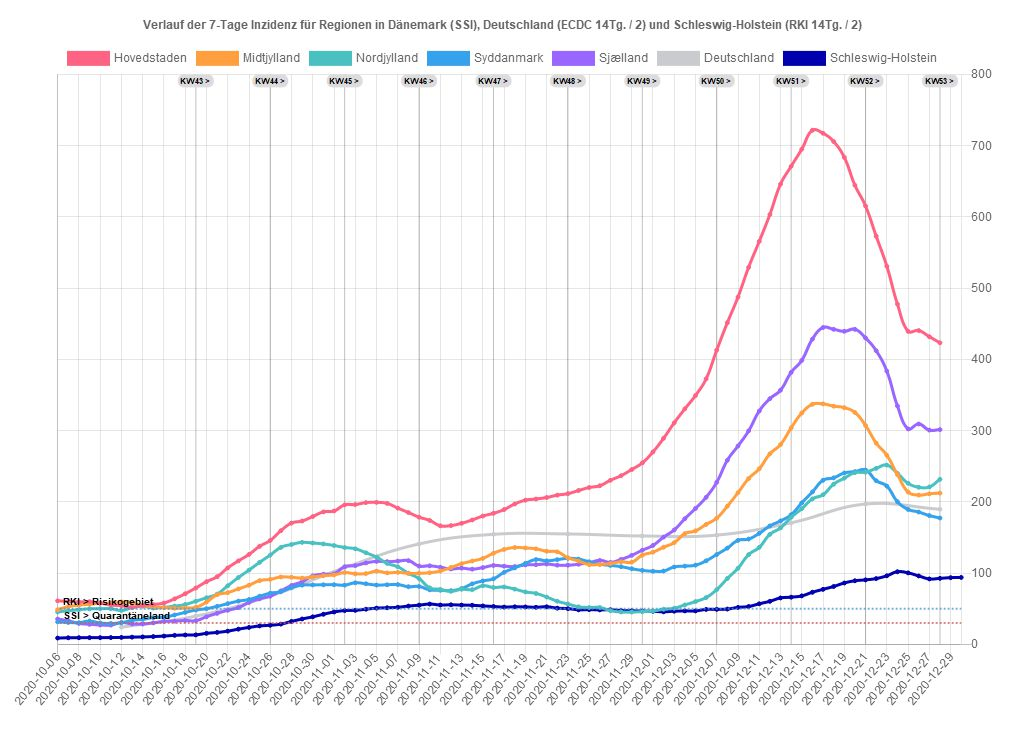
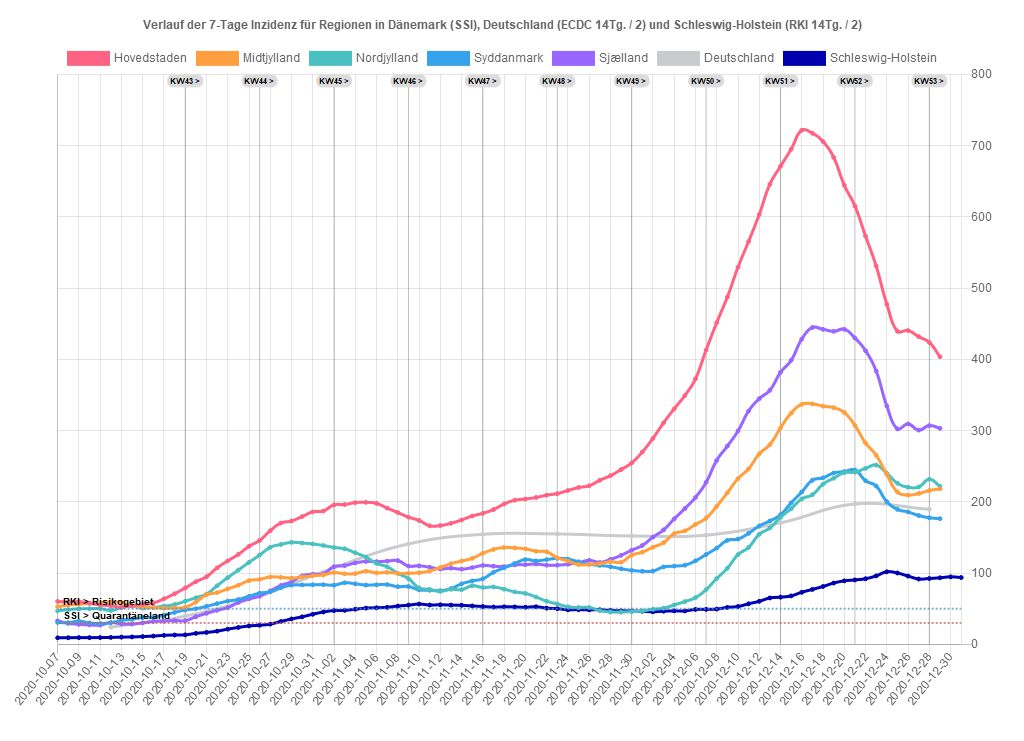
31.12.2020 14:19:22,07

diff --git a/dk/regioner.js b/dk/regioner.js
@@ -1,44 +1,44 @@
 var chdata={ type:'line',
-last_update: '2020-12-30',
-last_dk_data: '2020-12-28',
+last_update: '2020-12-31',
+last_dk_data: '2020-12-29',
 data: {
-labels: ["2020-10-06","2020-10-07","2020-10-08","2020-10-09","2020-10-10","2020-10-11","2020-10-12","2020-10-13","2020-10-14","2020-10-15","2020-10-16","2020-10-17","2020-10-18","2020-10-19","2020-10-20","2020-10-21","2020-10-22","2020-10-23","2020-10-24","2020-10-25","2020-10-26","2020-10-27","2020-10-28","2020-10-29","2020-10-30","2020-10-31","2020-11-01","2020-11-02","2020-11-03","2020-11-04","2020-11-05","2020-11-06","2020-11-07","2020-11-08","2020-11-09","2020-11-10","2020-11-11","2020-11-12","2020-11-13","2020-11-14","2020-11-15","2020-11-16","2020-11-17","2020-11-18","2020-11-19","2020-11-20","2020-11-21","2020-11-22","2020-11-23","2020-11-24","2020-11-25","2020-11-26","2020-11-27","2020-11-28","2020-11-29","2020-11-30","2020-12-01","2020-12-02","2020-12-03","2020-12-04","2020-12-05","2020-12-06","2020-12-07","2020-12-08","2020-12-09","2020-12-10","2020-12-11","2020-12-12","2020-12-13","2020-12-14","2020-12-15","2020-12-16","2020-12-17","2020-12-18","2020-12-19","2020-12-20","2020-12-21","2020-12-22","2020-12-23","2020-12-24","2020-12-25","2020-12-26","2020-12-27","2020-12-28","2020-12-29","2020-12-30"],
+labels: ["2020-10-07","2020-10-08","2020-10-09","2020-10-10","2020-10-11","2020-10-12","2020-10-13","2020-10-14","2020-10-15","2020-10-16","2020-10-17","2020-10-18","2020-10-19","2020-10-20","2020-10-21","2020-10-22","2020-10-23","2020-10-24","2020-10-25","2020-10-26","2020-10-27","2020-10-28","2020-10-29","2020-10-30","2020-10-31","2020-11-01","2020-11-02","2020-11-03","2020-11-04","2020-11-05","2020-11-06","2020-11-07","2020-11-08","2020-11-09","2020-11-10","2020-11-11","2020-11-12","2020-11-13","2020-11-14","2020-11-15","2020-11-16","2020-11-17","2020-11-18","2020-11-19","2020-11-20","2020-11-21","2020-11-22","2020-11-23","2020-11-24","2020-11-25","2020-11-26","2020-11-27","2020-11-28","2020-11-29","2020-11-30","2020-12-01","2020-12-02","2020-12-03","2020-12-04","2020-12-05","2020-12-06","2020-12-07","2020-12-08","2020-12-09","2020-12-10","2020-12-11","2020-12-12","2020-12-13","2020-12-14","2020-12-15","2020-12-16","2020-12-17","2020-12-18","2020-12-19","2020-12-20","2020-12-21","2020-12-22","2020-12-23","2020-12-24","2020-12-25","2020-12-26","2020-12-27","2020-12-28","2020-12-29","2020-12-30","2020-12-31"],
 datasets: [
 {label: 'Hovedstaden',
 backgroundColor: window.chartColors.red,
 borderColor: window.chartColors.red,
 fill: false,
-data: [61.1,60.2,59.5,59.9,57.8,55.2,54.2,52.1,54.4,55.9,58.0,63.9,71.0,79.1,87.9,94.9,107.3,117.1,126.2,137.6,145.8,159.5,170.2,173.1,179.4,185.9,187.2,195.7,196.2,198.9,199.3,197.8,191.2,185.0,178.5,173.9,166.4,166.7,169.9,174.6,180.1,183.9,189.2,197.0,202.3,204.0,206.1,209.4,211.5,215.9,220.1,222.6,230.3,236.7,245.3,254.7,270.0,289.2,310.9,330.5,349.2,372.6,413.0,451.5,487.4,529.2,565.6,603.4,645.9,671.0,695.0,721.6,717.4,705.7,683.5,644.4,615.2,572.9,530.8,477.5,439.4,440.4,431.8,423.2]},
+data: [60.2,59.5,59.9,57.8,55.2,54.2,52.1,54.4,55.9,58.0,63.9,71.0,79.1,87.9,94.9,107.3,117.1,126.2,137.6,145.8,159.5,170.2,173.1,179.4,185.9,187.2,195.7,196.2,198.9,199.3,197.8,191.2,185.0,178.5,173.9,166.4,166.7,169.9,174.6,180.1,183.9,189.2,197.0,202.3,204.0,206.1,209.4,211.5,215.9,220.1,222.6,230.3,236.7,245.3,254.7,270.0,289.2,310.9,330.6,349.2,372.7,413.1,451.6,487.5,529.3,565.6,603.4,645.9,671.0,695.0,721.6,717.4,705.7,683.5,644.4,615.2,572.9,530.9,477.5,439.4,440.4,431.8,423.8,403.7]},
 {label: 'Midtjylland',
 backgroundColor: window.chartColors.orange,
 borderColor: window.chartColors.orange,
 fill: false,
-data: [48.6,52.9,55.0,56.2,57.5,58.1,59.6,58.6,54.4,52.5,51.6,50.7,51.0,52.0,59.3,69.6,72.6,77.8,83.0,89.4,91.2,94.5,94.1,93.0,94.6,96.3,97.5,100.7,99.0,99.3,102.7,100.3,101.0,99.6,99.7,100.5,102.9,107.9,113.2,116.9,120.7,127.8,133.2,135.9,135.3,134.0,130.7,129.8,121.6,116.9,111.9,112.1,113.4,115.9,115.3,125.1,129.4,136.3,142.7,155.4,159.3,168.3,177.1,193.9,212.8,232.7,246.4,267.4,280.4,303.8,324.6,336.9,337.5,334.3,332.2,325.4,307.2,282.5,265.4,238.3,213.8,209.5,211.3,212.3]},
+data: [52.9,55.0,56.2,57.5,58.1,59.6,58.6,54.4,52.5,51.6,50.7,51.0,52.0,59.3,69.6,72.6,77.8,83.0,89.4,91.2,94.5,94.1,93.0,94.6,96.3,97.5,100.7,99.0,99.3,102.7,100.3,101.0,99.6,99.7,100.5,102.9,107.9,113.2,116.9,120.7,127.8,133.2,135.9,135.3,134.0,130.7,129.8,121.6,116.9,111.9,112.1,113.4,115.9,115.3,125.1,129.4,136.3,142.7,155.4,159.3,168.3,177.1,193.9,212.8,232.7,246.4,267.4,280.4,303.8,324.6,336.9,337.5,334.3,332.2,325.4,307.2,282.5,265.4,238.3,213.8,209.5,211.7,215.9,218.3]},
 {label: 'Nordjylland',
 backgroundColor: window.chartColors.green,
 borderColor: window.chartColors.green,
 fill: false,
-data: [45.4,47.1,48.6,49.8,50.0,50.0,47.5,51.5,53.7,50.9,51.9,53.6,55.9,60.5,65.4,70.5,82.2,93.7,104.2,115.1,125.3,136.1,140.2,143.1,142.2,140.9,138.7,135.9,134.1,128.5,122.4,113.6,108.8,99.7,92.2,79.3,77.1,74.4,77.3,76.8,82.2,79.8,80.5,77.5,73.6,71.4,66.4,60.5,56.6,52.7,51.7,51.7,47.3,45.4,45.3,45.9,46.8,49.2,50.7,55.3,60.0,65.6,76.8,92.4,106.8,125.9,136.1,154.4,163.4,178.3,190.4,204.1,210.0,224.8,233.2,241.0,241.7,247.0,251.6,240.0,226.1,220.5,220.9,231.7]},
+data: [47.1,48.6,49.8,50.0,50.0,47.5,51.5,53.7,50.9,51.9,53.6,55.9,60.5,65.4,70.5,82.2,93.7,104.2,115.1,125.3,136.1,140.2,143.1,142.2,140.9,138.7,135.9,134.1,128.5,122.4,113.6,108.8,99.7,92.2,79.3,77.1,74.4,77.3,76.8,82.2,79.8,80.5,77.5,73.6,71.4,66.4,60.5,56.6,52.7,51.7,51.7,47.3,45.4,45.3,45.9,46.8,49.2,50.7,55.3,60.0,65.6,76.8,92.4,106.8,125.9,136.1,154.4,163.4,178.3,190.4,204.1,210.0,224.8,233.2,241.0,241.7,247.0,251.6,240.0,226.1,220.5,220.9,231.7,221.9]},
 {label: 'Syddanmark',
 backgroundColor: window.chartColors.blue,
 borderColor: window.chartColors.blue,
 fill: false,
-data: [31.6,30.7,30.4,32.5,30.0,29.3,30.3,33.6,35.1,37.5,37.9,41.2,44.8,48.2,50.0,53.3,57.1,60.6,62.9,67.5,71.8,73.8,79.6,83.1,83.4,83.6,83.7,83.1,86.4,85.0,83.2,83.6,83.9,80.9,81.2,76.5,75.9,75.4,78.3,84.9,89.0,92.0,101.1,107.3,113.6,119.0,117.2,118.9,120.7,119.6,115.9,112.4,110.8,109.0,106.1,103.8,102.6,102.9,108.6,109.8,111.1,117.2,126.1,135.1,145.9,147.8,155.8,166.2,173.2,181.9,198.6,213.9,230.3,233.7,240.5,242.5,244.7,229.7,222.1,200.2,189.4,185.7,180.7,177.3]},
+data: [30.7,30.4,32.5,30.0,29.3,30.3,33.6,35.1,37.5,37.9,41.2,44.8,48.2,50.0,53.3,57.1,60.6,62.9,67.5,71.8,73.8,79.6,83.1,83.4,83.6,83.7,83.1,86.4,85.0,83.2,83.6,83.9,80.9,81.2,76.5,75.9,75.4,78.3,84.9,89.0,92.0,101.1,107.3,113.6,119.0,117.2,118.9,120.7,119.6,115.9,112.4,110.8,109.0,106.1,103.8,102.6,102.9,108.6,109.8,111.1,117.2,126.1,135.1,145.9,147.8,155.8,166.2,173.2,181.9,198.6,213.9,230.3,233.7,240.5,242.5,244.7,229.7,222.1,200.2,189.4,185.8,180.8,177.7,176.4]},
 {label: 'Sjælland',
 backgroundColor: window.chartColors.purple,
 borderColor: window.chartColors.purple,
 fill: false,
-data: [35.6,33.0,29.4,28.1,27.2,27.0,30.6,28.7,28.5,30.1,32.2,32.6,33.4,33.2,38.7,43.5,47.8,51.5,58.8,64.0,67.6,75.0,82.6,87.9,96.1,98.4,99.0,109.0,110.5,114.2,116.4,116.0,116.8,117.5,109.9,110.2,108.2,105.8,106.9,105.5,107.7,110.7,109.7,109.2,111.5,111.8,112.7,111.1,111.1,112.4,114.6,117.8,115.0,119.2,124.9,132.1,138.8,150.5,160.6,176.3,190.7,206.4,227.5,258.4,278.4,299.6,327.5,344.8,356.7,381.7,398.6,428.4,444.7,442.2,439.4,442.2,430.0,412.1,383.5,334.6,302.4,309.3,300.7,301.4]},
+data: [33.0,29.4,28.1,27.2,27.0,30.6,28.7,28.5,30.1,32.2,32.6,33.4,33.2,38.7,43.5,47.8,51.5,58.8,64.0,67.6,75.0,82.6,87.9,96.1,98.4,99.0,109.0,110.5,114.2,116.4,116.0,116.8,117.5,109.9,110.2,108.2,105.8,106.9,105.5,107.7,110.7,109.7,109.2,111.5,111.8,112.7,111.1,111.1,112.4,114.6,117.8,115.0,119.2,124.9,132.1,138.8,150.5,160.6,176.1,190.6,206.2,227.4,258.3,278.3,299.5,327.5,344.8,356.7,381.7,398.6,428.4,444.7,442.2,439.4,442.2,430.0,412.1,383.5,334.6,302.4,309.3,300.7,307.0,303.2]},
 {label: 'Deutschland',
 backgroundColor: window.chartColors.grey,
 borderColor: window.chartColors.grey,
 spanGaps: true,
 fill: false,
-data: [,,,,,,24.1,,,,,,,39.6,,,,,,,67.8,,,,,,,107.6,,,,,,,140.9,,,,,,,154.4,,,,,,,154.9,,,,,,,152.1,,,,,,,153.3,,,,,,,170.6,,,,,,,196.9,,,,,,,189.6,,]},
+data: [,,,,,24.1,,,,,,,39.6,,,,,,,67.8,,,,,,,107.6,,,,,,,140.9,,,,,,,154.4,,,,,,,154.9,,,,,,,152.1,,,,,,,153.3,,,,,,,170.6,,,,,,,196.9,,,,,,,189.6,,,]},
 {label: 'Schleswig-Holstein',
 backgroundColor: '#0000AF',
 borderColor: '#0000AF',
 fill: false,
-data: [8.8,9.2,9.3,9.4,9.4,9.5,9.7,10.1,10.4,10.9,11.6,12.6,13.1,13.3,15.4,16.7,18.5,21.3,23.7,25.8,26.8,28.4,32.1,35.6,38.6,42.2,45.4,47.4,47.7,49.3,50.8,51.3,52.0,53.7,55.0,56.5,55.2,55.5,55.1,54.8,53.9,53.1,52.3,52.7,52.5,52.0,52.7,50.8,50.1,48.5,48.7,48.4,48.5,47.5,47.1,46.7,46.4,45.7,46.5,46.9,46.9,49.0,49.1,49.5,51.8,53.1,56.9,60.4,65.1,66.2,68.0,73.1,77.2,81.2,86.1,89.2,90.5,92.3,96.2,101.9,100.3,96.0,91.8,92.6,93.6,93.9]}
+data: [9.2,9.3,9.4,9.4,9.5,9.7,10.1,10.4,10.9,11.6,12.6,13.1,13.3,15.4,16.7,18.5,21.3,23.7,25.8,26.8,28.4,32.1,35.6,38.6,42.2,45.4,47.4,47.7,49.3,50.8,51.3,52.0,53.7,55.0,56.5,55.2,55.5,55.1,54.8,53.9,53.1,52.3,52.7,52.5,52.0,52.7,50.8,50.1,48.5,48.7,48.4,48.5,47.5,47.1,46.7,46.4,45.7,46.5,46.9,46.9,49.0,49.1,49.5,51.8,53.1,56.9,60.4,65.1,66.2,68.0,73.1,77.1,81.2,86.0,89.1,90.4,92.1,96.1,101.8,100.1,95.8,91.7,92.4,93.4,94.7,93.8]}
 ]}};
 

diff --git a/sterblichkeit/index_ueber.html b/sterblichkeit/index_ueber.html
@@ -60,16 +60,16 @@
 <h2 id="Anmerkungen">Anmerkungen</h2>
 <ul>
 <li><strong>Erläuterung:</strong><br/>
-Diese Grafiken stellen je Land die allgemeine Sterblichkeit (blau für 2020+) bzw. Übersterblichkeit (Fläche in hellrot) je Kalenderwoche den gemeldeten COVID-19 Sterbefällen (in grün) gegenüber. Die Sterbefälle der Vorjahre werden ebenfalls in anderen Farben gezeigt.</li>
+Diese Grafiken stellen je Land die allgemeine Sterblichkeit (<strong><span style="color:blue;">blaue</span></strong> Linie für 2020+) bzw. Übersterblichkeit (Fläche in <span style="background-color: rgba(255,0,0,0.25);">Hellrot</span>) je Kalenderwoche den gemeldeten COVID-19 Sterbefällen (in <span style="background-color: rgba(0,193,143,0.25);">Grün</span>) gegenüber. Die Sterbefälle der Vorjahre werden ebenfalls als Linien in anderen Farben gezeigt.</li>
 <li><strong>Abweichungen/Zeitraum:</strong><br/>Die Übersterblichkeit wird hier ab dem ersten dokumentierten Covid-19 Todesfall summiert (siehe schwarze vertikale Linie). Alternativ kann die Übersterblichkeit ab Jahresbeginn summiert werden. Dies führt jeweils zu unterschiedlichen Ergebnissen was bei der Interpretation berücksichtigt werden sollte.</li>
 <li><strong>Übersterblichkeit:</strong><br/>
-Beschreibt hier die Abweichung vom Vorjahresdurchschnitt ab dem ersten Covid-19 Todesfall (alternativ: 01.01.2020). Das Intervall für die Bildung des Durchschnittes ist je Land in der Legende angegeben. Es kann nach Datenverfügbarkeit variieren. Im Falle der USA wird als Durchschnitt der vom CDC gelieferte Wert "Average expected number of deaths" verwendet. Der prozentuale Wert (rote Linie) entspricht dem Anteil der kumulierten Abweichung an den gesamten durchschnittlichen Sterbefällen im jeweils gleichen Zeitraum. Der abschließende Wert (oben) zeigt also die Gesamtabweichung zum Durchschnitt im bekannten Zeitraum in % sowie in Sterbefällen. Je nach Land, kann dieser Zeitraum (siehe vertikale rote Linie) weit vor der aktuellen KW (siehe vertikale grüne Linie) enden. Negative Werte zeigen entsprechend eine unterdurchschnittliche Sterblichkeit.</li>
+Beschreibt hier die Abweichung vom Vorjahresdurchschnitt ab dem ersten Covid-19 Todesfall (alternativ: 01.01.2020). Das Intervall für die Bildung des Durchschnittes ist je Land in der Legende angegeben. Es kann nach Datenverfügbarkeit variieren. Im Falle der USA wird als Durchschnitt der vom CDC gelieferte Wert "Average expected number of deaths" verwendet. Der prozentuale Wert (<strong><span style="color:red;">rote</span></strong> Linie) entspricht dem Anteil der kumulierten Abweichung an den gesamten durchschnittlichen Sterbefällen im jeweils gleichen Zeitraum. Der abschließende Wert (oben in <strong><span style="color:rgb(100,0,0);">Rot</span></strong>) zeigt also die Gesamtabweichung zum Durchschnitt im bekannten Zeitraum in % sowie in Sterbefällen. Je nach Land, kann dieser Zeitraum (siehe vertikale rote Linie) weit vor der aktuellen KW (siehe vertikale grüne Linie) enden. Negative Werte zeigen entsprechend eine unterdurchschnittliche Sterblichkeit.</li>
 <li><strong>Prognose: (Experiment!)</strong><br/>
-Wird diese Funktion aktiviert, so wird versucht eine grobe Prognose der Übersterblichkeit anhand der Entwicklung der gemeldeten Covid-19 Sterbezahlen zu "erraten". Es handelt es sich hier um eine experimentelle Funktion, daher ist sie normalerweise auch abgeschaltet. Die Prognose startet bei der vorletzten ermittelten Übersterblichkeit und schreibt diese orientiert an den wöchentlich gemeldeten Covid-19 Sterbezahlen fort. Das Ergebnis wird in Blau angezeigt.</li>
+Wird diese Funktion aktiviert, so wird versucht eine grobe Prognose der Übersterblichkeit anhand der Entwicklung der gemeldeten Covid-19 Sterbezahlen zu "erraten". Es handelt es sich hier um eine experimentelle Funktion, daher ist sie normalerweise auch abgeschaltet. Die Prognose startet bei der vorletzten ermittelten Übersterblichkeit und schreibt diese orientiert an den wöchentlich gemeldeten Covid-19 Sterbezahlen fort. Das Ergebnis wird in <span style="background-color: rgba(0,0,255,0.15);">Blau</span> angezeigt.</li>
 <li><strong>Werte:</strong><br/>
 In dieser Statistik werden auch als 'provisional' oder 'estimated' gekennzeichnete Werte verwendet. Insbesondere die Angaben bzgl. Sterbefällen in den letzten Wochen können - je nach Land unterschiedlich - noch besonders unvollständig sein.</li>
 <li><strong>COVID-19:</strong><br/>
-Dies sind die von der Johns Hopkins University zusammengetragenen bzw. (alternativ) an das ECDC gemeldeten COVID-19 Todesfälle je KW (in grün). Der abschließende Wert (unten) nennt die bis zur letzten vollständigen Kalenderwoche kumulierten gemeldeten COVID-19 Todesfälle gemäß Johns Hopkins University bzw. ECDC (Aktualität, siehe Titelzeile). Die Datenquelle kann über die Buttons oben umgestellt werden.</li>
+Dies sind die von der Johns Hopkins University zusammengetragenen bzw. (alternativ) an das ECDC gemeldeten COVID-19 Todesfälle je KW (in grün). Der abschließende Wert in <strong><span style="color:rgb(0,102,76);">Grün</span></strong> (unten) nennt die aktuell insgesamt gemeldeten COVID-19 Todesfälle gemäß Johns Hopkins University bzw. bei ECDC-Daten die kumulierten Todesfälle bis zur letzten gezeigten Woche (Aktualität, siehe Titelzeile). <strong>Die Datenquelle JHU/ECDC kann über die Buttons oben umgestellt werden.</strong> Die kleine graue vertikale Linie rechts daneben (nur JHU) zeigt die kumulierten Todesfälle der angebrochenen aktuellen Woche (daher ungenau) skaliert auf eine Woche.</li>
 <li><strong>USA:</strong><br/>
 Die Sterbefälle/Übersterblichkeit stammen vom CDC. Die Sterbefälle entsprechen dem Wert "Predicted number of deaths from all causes". Details dazu finden sich beim <a href="https://www.cdc.gov/nchs/nvss/vsrr/covid19/excess_deaths.htm">CDC</a>. Aufgrund der Vergleichbarkeit wurden die US-Kalenderwochen (beginnen Sonntags) auf europäische Kalenderwochen (beginnen Montags) abgebildet. So kann es im Zeitbezug zu minimalen Abweichungen kommen.</li>
 </ul>
@@ -252,9 +252,9 @@ function createConfig(details) {
                 ymax: 1,
                 xmin: 0,
                 xmin: 1,
-                borderColor: 'rgba(0,0,0,0.25)',
+                borderColor: 'rgba(0,0,0,0.0)',
                 //borderDash: [8,8],
-                backgroundColor: 'rgba(0,255,0,0.0)',
+                backgroundColor: 'rgba(0,0,0,0.25)',
                 borderWidth: 1,
             },
             annotation: {
@@ -633,7 +633,7 @@ function calcExcess(config,byYearStart,addProgn,useECDCData) {
         aExcess.value=labels[lastCasesCWix]
         aExcess.label.content = ""+(Math.round(excess.data[lastCasesCWix]*10)/10)+"%, "+Math.round(sumExcess)
         
-        if (useECDCData || config.data.cocode=="US") {
+        if (useECDCData) {
             aCovid.label.content = covidsum
             aCovid.scaleID = "x-axis-0"
             aCovid.value=labels[lastCovidCWix]

diff --git a/sterblichkeit/sterbefaelle7_ueber_us.js b/sterblichkeit/sterbefaelle7_ueber_us.js
@@ -12,6 +12,8 @@ lastperc: 13.9982626,
 lastcw: '2020/51',
 lastcw_covid: '2020/52',
 covid_sum: '333326',
+jh_last_covid_dayoffset: '3',
+jh_covid_sum: '342312',
 labels: ["2020/01","2020/02","2020/03","2020/04","2020/05","2020/06","2020/07","2020/08","2020/09","2020/10","2020/11","2020/12","2020/13","2020/14","2020/15","2020/16","2020/17","2020/18","2020/19","2020/20","2020/21","2020/22","2020/23","2020/24","2020/25","2020/26","2020/27","2020/28","2020/29","2020/30","2020/31","2020/32","2020/33","2020/34","2020/35","2020/36","2020/37","2020/38","2020/39","2020/40","2020/41","2020/42","2020/43","2020/44","2020/45","2020/46","2020/47","2020/48","2020/49","2020/50","2020/51","2020/52","2020/53","2021/01"],
 type: 'line',
 _ecdc_data: [0,0,0,0,0,0,0,0,2,19,48,402,2038,7138,12461,18574,14194,12806,11846,10034,8158,6663,6131,5218,4243,5829,4143,5258,5329,6401,7925,8078,7114,6754,6263,5872,5138,5430,5247,5038,4977,4903,5556,5766,6576,8642,10568,10091,15437,16867,18493,15656,,],

diff --git a/sh/index_sh_alter.html b/sh/index_sh_alter.html
@@ -5,7 +5,7 @@
 <meta property="og:image" content="index_sh_alter.jpg" />
 <meta property="og:type" content="website" />
 <meta property="og:locale" content="de_DE" />
-<meta property="og:updated_time" content="2020-12-31T07:04:12+01:00" />
+<meta property="og:updated_time" content="2020-12-31T14:19:21+01:00" />
 <title>Altersverteilung der Corona-Fälle in Schleswig-Holstein</title>
 <link rel="stylesheet" href="../css/style.css" media="screen" type="text/css">
 <link rel="stylesheet" media="screen" href="Chart.min.css"> 

diff --git a/sh/index_pi_alter.html b/sh/index_pi_alter.html
@@ -5,7 +5,7 @@
 <meta property="og:image" content="index_pi_alter.jpg" />
 <meta property="og:type" content="website" />
 <meta property="og:locale" content="de_DE" />
-<meta property="og:updated_time" content="2020-12-31T07:04:12+01:00" />
+<meta property="og:updated_time" content="2020-12-31T14:19:21+01:00" />
 <title>Altersverteilung der Corona-Fälle im Kreis Pinneberg</title>
 <link rel="stylesheet" href="../css/style.css" media="screen" type="text/css">
 <link rel="stylesheet" media="screen" href="Chart.min.css"> 

diff --git a/sh/index.html b/sh/index.html
@@ -5,7 +5,7 @@
 <meta property="og:image" content="index.jpg" />
 <meta property="og:type" content="website" />
 <meta property="og:locale" content="de_DE" />
-<meta property="og:updated_time" content="2020-12-31T07:04:12+01:00" />
+<meta property="og:updated_time" content="2020-12-31T14:19:21+01:00" />
 <title>Corona-Fälle im Kreis Pinneberg</title>
 <link rel="stylesheet" href="../css/style.css" media="screen" type="text/css">
 <link rel="stylesheet" media="screen" href="Chart.min.css"> 
